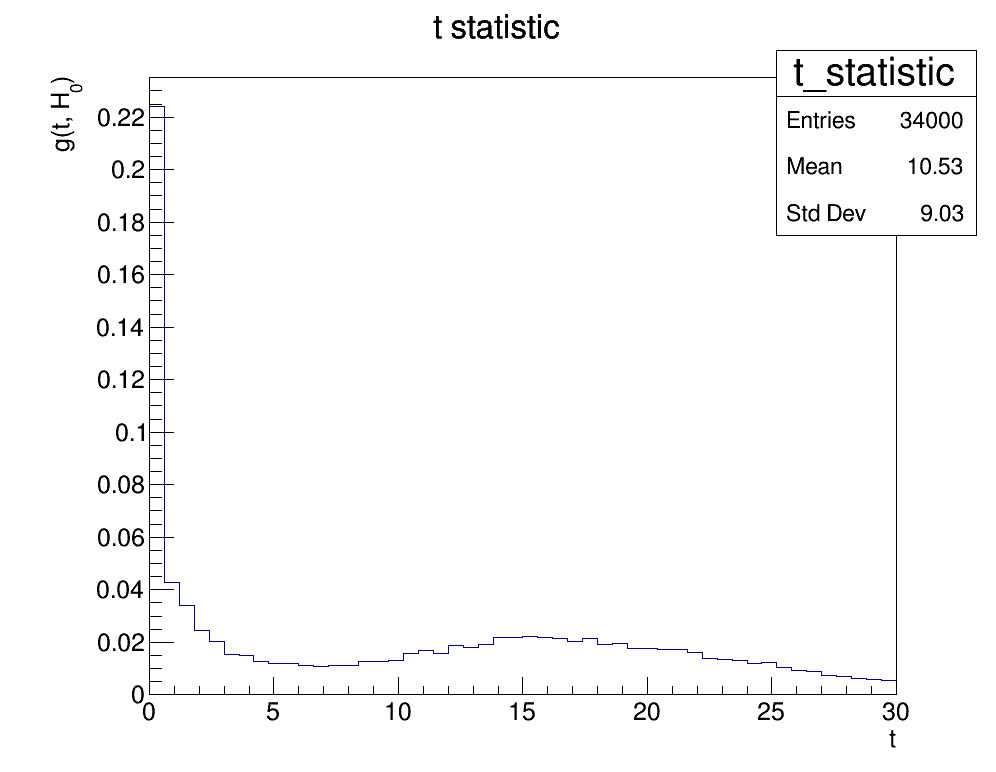
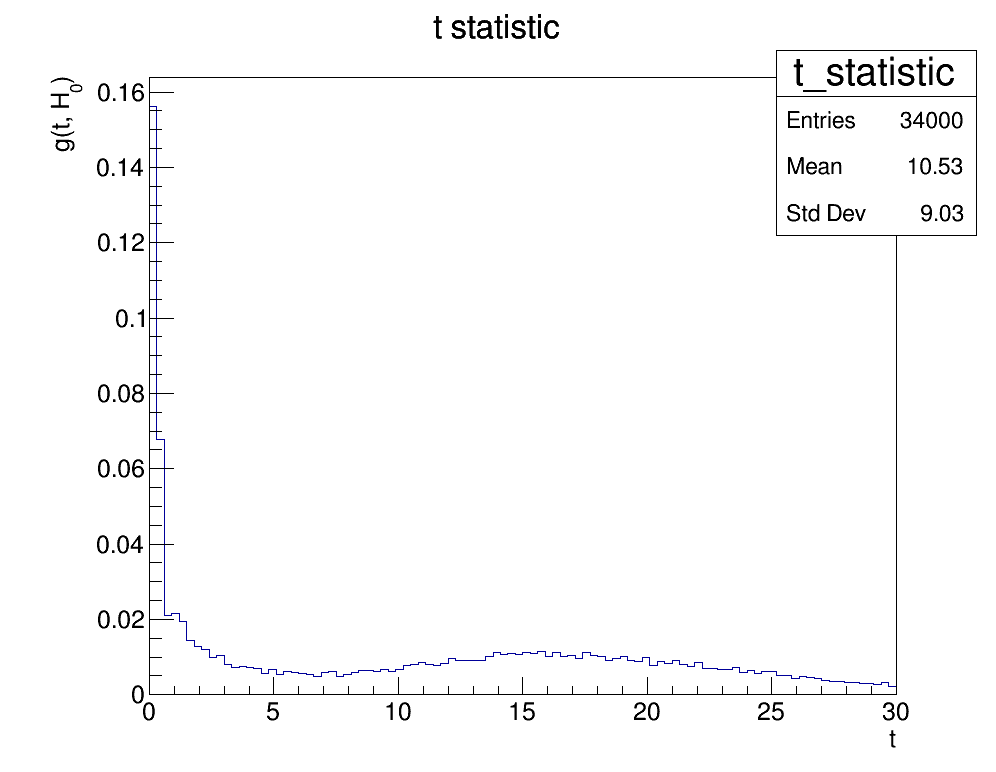
Zad 2 doradak

diff --git a/Vjezbe_14/Analyzer.cpp b/Vjezbe_14/Analyzer.cpp
@@ -9,7 +9,7 @@ Analyzer::Analyzer()
     zeta = 100.;
     sirinaProzora = 20;
     tStat_max = 30.;
-    t_brBinova = 50;
+    t_brBinova = 100;
 
     h_tstat  = new TH1F("t_statistic", "t statistic;t;g(t, H_{0})", t_brBinova, 0., tStat_max);
     h_pdf    = new TH1F("pdf", "pdf for photon mass;m_{#gamma#gamma};PDF(m_{#gamma#gamma})", mH_brBinova, mH_min, mH_max);
@@ -71,7 +71,7 @@ void Analyzer::PvalueScan()
 {
     const int Nevents = 1.0e4, mH_step = 5;
     int Mexperiments = (int)(mH_max-mH_min)/mH_step;
-    Double_t masaFotona, masaHiggsa, xmin, xmax, chi2, t_exp;
+    Double_t masaFotona, masaHiggsa, xmin, xmax, chi2, t_exp, z_score;
     Double_t higgsProbability;
 
     TCanvas *c         = new TCanvas("c", "pdf", 0,0,1000,800);
@@ -113,6 +113,10 @@ void Analyzer::PvalueScan()
 
         std::cout << "p value = " << pValue << "\n";
         g_pvalue->AddPoint(masaHiggsa, pValue);
+
+        z_score = TMath::Sqrt(2)*TMath::ErfcInverse(2*pValue);
+        if (z_score >= 3.)
+            std::cout << "\n    ***** significance greater than 3 sigma:  " << z_score << " *****\n\n";
     }
  
     gStyle->SetOptStat();
@@ -133,10 +137,7 @@ void Analyzer::PvalueScan()
     g_pvalue->GetYaxis()->SetTitle("p value");
     g_pvalue->Draw("ALP");
     c->SaveAs("pValueScan.png");
-/*
-    z_score = TMath::Sqrt(2)*TMath::ErfcInverse(2*pValue);
-    std::cout << "significance observed = " << z_score << "\n";
-*/
+
 }
 
 
